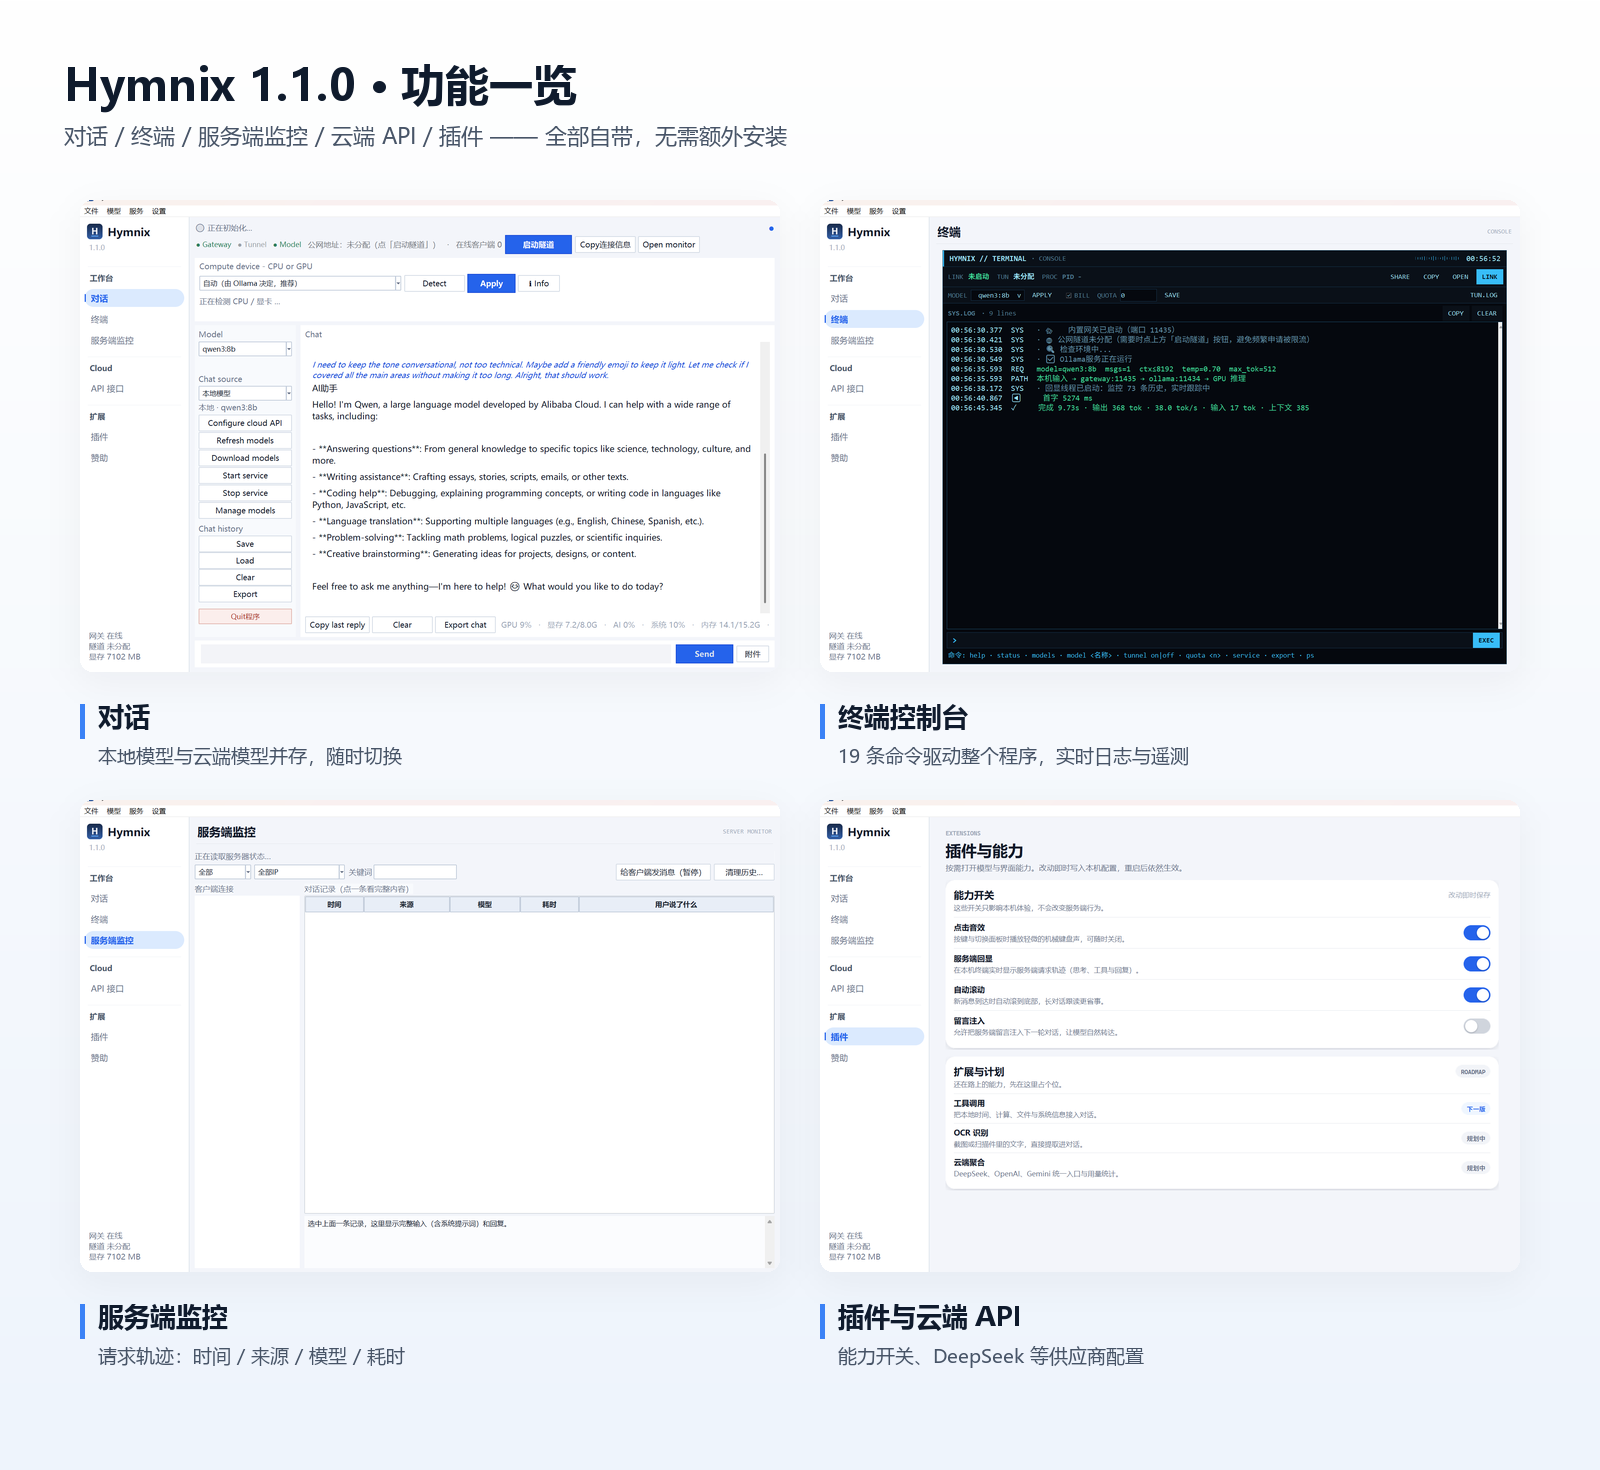
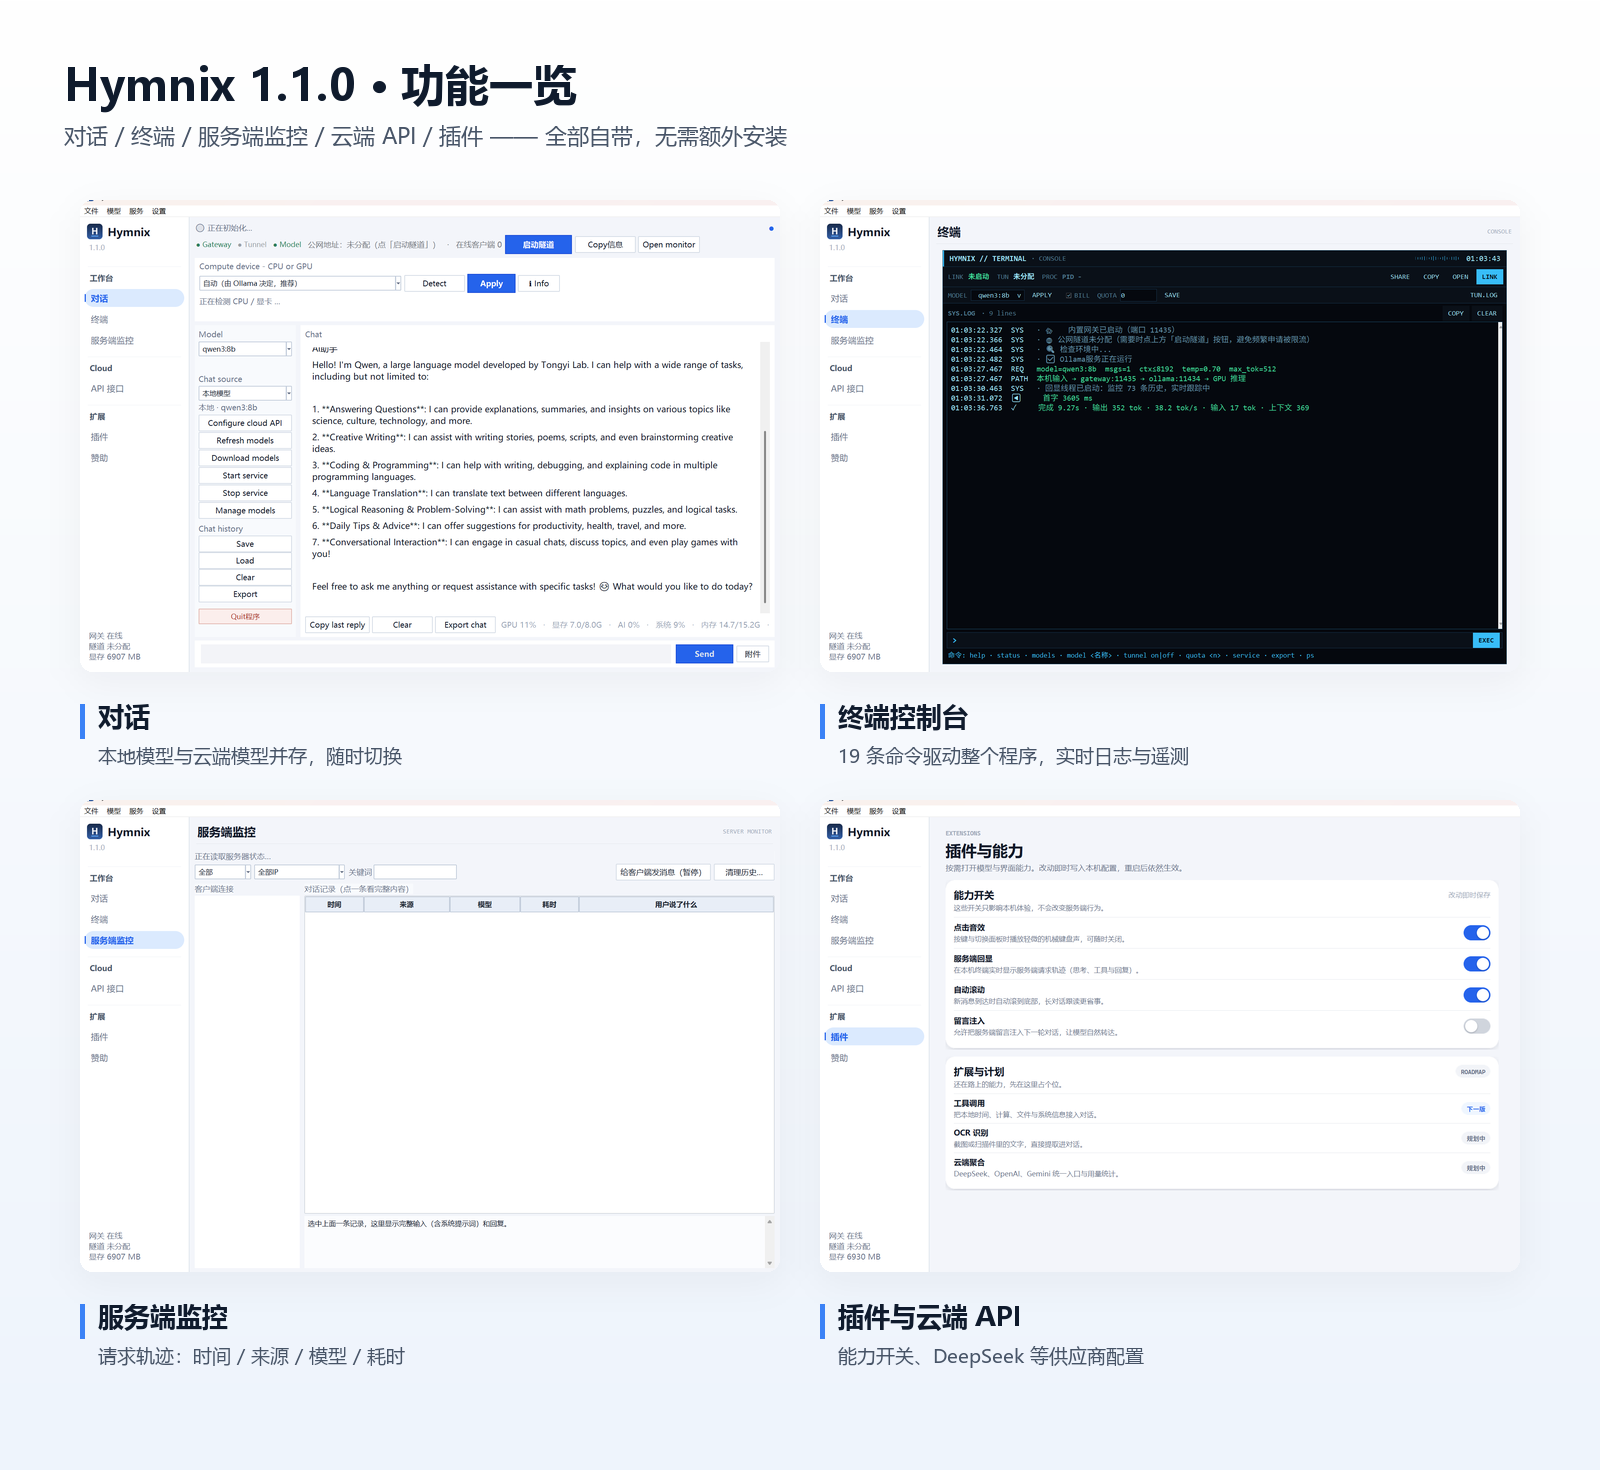
fix(i18n): localize hardware summary, model tags and user label; docs: refreshed screenshots

Changed region(s): [[0.1875, 0.2449, 0.4688, 0.4286], [0.5938, 0.2143, 0.625, 0.2755]]

diff --git a/server/hymnix_main.py b/server/hymnix_main.py
@@ -334,6 +334,16 @@ def AI_NAME(cfg):
     return value
 
 
+def USER_NAME(cfg):
+    """Display name for the local user; the built-in default follows the UI language."""
+    value = str((cfg or {}).get("user_name") or "").strip()
+    if not value:
+        value = "您"
+    if LANG.get("cur") == "en" and value == "您":
+        return "You"
+    return value
+
+
 ZH2EN.update({
     "使用帮助": "Help",
     "更新日志": "Changelog",
@@ -2507,7 +2517,7 @@ class HuimengAIClient:
         self.tunnel_btn = ttk.Button(sbar, text="启动隧道", style="Accent.TButton",
                                      command=self.toggle_host_tunnel)
         self.tunnel_btn.pack(side=tk.LEFT, padx=(8, 0))
-        ttk.Button(sbar, text=T("复制连接信息", "Copy connection info"), style="Ghost.TButton",
+        ttk.Button(sbar, text=T("复制信息", "Copy info"), style="Ghost.TButton",
                    command=self.copy_host_url).pack(side=tk.LEFT, padx=(8, 0))
         ttk.Button(sbar, text="看监控", style="Ghost.TButton",
                    command=self.show_monitor_tab).pack(side=tk.LEFT, padx=(6, 0))
@@ -2792,12 +2802,14 @@ class HuimengAIClient:
                 break
         self.device_var.set(shown)
         if gpus:
-            gpu_txt = "、".join("%s %.1fG" % (g["name"], g["vram_gb"]) for g in gpus)
+            gpu_txt = T("、", ", ").join("%s %.1fG" % (g["name"], g["vram_gb"]) for g in gpus)
         else:
-            gpu_txt = "未检测到独立显卡，只能用 CPU"
-        self.hw_summary_var.set("CPU: %s（%d 核 / %d 线程 @ %d MHz）   |   显卡 %d 张：%s   |   内存 %.1f GB" % (
-            cpu.get("name", "未知"), cpu.get("cores", 0), cpu.get("threads", 0), cpu.get("mhz", 0),
-            len(gpus), gpu_txt, data.get("ram_gb", 0)))
+            gpu_txt = T("未检测到独立显卡，只能用 CPU", "no discrete GPU detected, CPU only")
+        self.hw_summary_var.set(
+            T("CPU: %s（%d 核 / %d 线程 @ %d MHz）   |   显卡 %d 张：%s   |   内存 %.1f GB",
+              "CPU: %s  (%d cores / %d threads @ %d MHz)   |   GPUs: %d - %s   |   RAM %.1f GB") % (
+                cpu.get("name", "未知"), cpu.get("cores", 0), cpu.get("threads", 0), cpu.get("mhz", 0),
+                len(gpus), gpu_txt, data.get("ram_gb", 0)))
         self.queue_message("system", T("🖥 硬件: %s，检测到 %d 张显卡" % (cpu.get("name", "未知"), len(gpus)),
                 "🖥 Hardware: %s, %d GPU(s) detected" % (cpu.get("name", "Unknown"), len(gpus))))
         if current.startswith("gpu:"):
@@ -2894,12 +2906,15 @@ class HuimengAIClient:
                     if size <= 0:
                         return
                     if vram >= size * 0.9:
-                        txt = "🟢 本次实际: GPU 推理（显存 %.2f GB / 模型 %.2f GB）" % (vram / (1024.0 ** 3), size / (1024.0 ** 3))
+                        txt = T("🟢 本次实际: GPU 推理（显存 %.2f GB / 模型 %.2f GB）",
+                                "🟢 This run: GPU inference (VRAM %.2f GB / model %.2f GB)") % (vram / (1024.0 ** 3), size / (1024.0 ** 3))
                     elif vram > 0:
-                        txt = "🟡 本次实际: GPU+CPU 混合（显存 %.2f GB，内存 %.2f GB）" % (
+                        txt = T("🟡 本次实际: GPU+CPU 混合（显存 %.2f GB，内存 %.2f GB）",
+                                "🟡 This run: GPU+CPU split (VRAM %.2f GB, RAM %.2f GB)") % (
                             vram / (1024.0 ** 3), (size - vram) / (1024.0 ** 3))
                     else:
-                        txt = "🔵 本次实际: CPU 推理（模型 %.2f GB 全在内存）" % (size / (1024.0 ** 3))
+                        txt = T("🔵 本次实际: CPU 推理（模型 %.2f GB 全在内存）",
+                                "🔵 This run: CPU inference (model %.2f GB in RAM)") % (size / (1024.0 ** 3))
                     self.root.after(0, lambda t=txt: self.update_device_hint(t))
                     return
             except Exception:
@@ -3303,8 +3318,8 @@ class HuimengAIClient:
             self.model_var.set("无可用模型")
             self.model_info_var.set("请下载模型")
 
-    TAG_NAMES = {"cn": "中文", "tools": "工具", "vision": "看图", "think": "思考",
-                 "code": "代码", "embed": "向量"}
+    TAG_NAMES = {"cn": T("中文", "Chinese"), "tools": T("工具", "tools"), "vision": T("看图", "vision"),
+                 "think": T("思考", "thinking"), "code": T("代码", "code"), "embed": T("向量", "embeddings")}
 
     def update_model_info(self):
         current = self.model_var.get()
@@ -3345,9 +3360,9 @@ class HuimengAIClient:
         self.model_caps = caps
         marks = []
         if "vision" in caps:
-            marks.append("👁 能看图")
+            marks.append(T("👁 能看图", "👁 vision"))
         if "tools" in caps:
-            marks.append("🛠 能调工具")
+            marks.append(T("🛠 能调工具", "🛠 tool calls"))
         base = self.model_info_var.get() or model
         if marks:
             self.model_info_var.set(base + "　" + " ".join(marks))
@@ -3428,7 +3443,7 @@ class HuimengAIClient:
         if not use_cloud and self.current_model in ["无可用模型", "请先启动Ollama服务"]:
             self.queue_message("system", "⚠ 请选择有效模型")
             return
-        user_name = self.config.get("user_name", "您")
+        user_name = USER_NAME(self.config)
         msg = {"role": "user", "content": self._compose_user_content(user_input)}
         images = [a["b64"] for a in self.attachments if a.get("kind") == "image"]
         if images:
@@ -4125,7 +4140,7 @@ class HuimengAIClient:
                 self.chat_text.delete(1.0, tk.END)
                 self.chat_text.config(state=tk.DISABLED)
                 self.conversation_history = data.get("history", [])
-                user_name = self.config.get("user_name", "您")
+                user_name = USER_NAME(self.config)
                 ai_name = AI_NAME(self.config)
                 for msg in self.conversation_history:
                     role = msg.get("role", "")
@@ -4214,7 +4229,7 @@ class HuimengAIClient:
         if not filename:
             return
         try:
-            user_name = self.config.get("user_name", "您")
+            user_name = USER_NAME(self.config)
             ai_name = AI_NAME(self.config)
             if fmt == "txt":
                 with open(filename, 'w', encoding='utf-8') as f:
@@ -4490,7 +4505,7 @@ class HuimengAIClient:
         settings_frame = ttk.Frame(dialog)
         settings_frame.pack(fill=tk.BOTH, expand=True, padx=20, pady=10)
         ttk.Label(settings_frame, text="用户名称:").grid(row=0, column=0, sticky=tk.W, pady=5)
-        user_name_var = tk.StringVar(value=self.config.get("user_name", "您"))
+        user_name_var = tk.StringVar(value=USER_NAME(self.config))
         ttk.Entry(settings_frame, textvariable=user_name_var, width=15).grid(row=0, column=1, sticky=tk.W, pady=5)
         ttk.Label(settings_frame, text="AI助手名称:").grid(row=1, column=0, sticky=tk.W, pady=5)
         ai_name_var = tk.StringVar(value=self.config.get("ai_name", "AI助手"))
@@ -4955,7 +4970,7 @@ class HuimengAIClient:
         btns.grid(row=0, column=1, rowspan=3, sticky="e", padx=16)
         ttk.Button(btns, text=T("启动隧道", "Start tunnel"), style="Accent.TButton",
                    command=self.toggle_host_tunnel).pack(side="left")
-        ttk.Button(btns, text=T("复制连接信息", "Copy connection info"), style="Ghost.TButton",
+        ttk.Button(btns, text=T("复制信息", "Copy info"), style="Ghost.TButton",
                    command=self.copy_host_url).pack(side="left", padx=8)
         ttk.Button(btns, text=T("打开监控", "Open monitor"), style="Ghost.TButton",
                    command=self.show_monitor_tab).pack(side="left")
